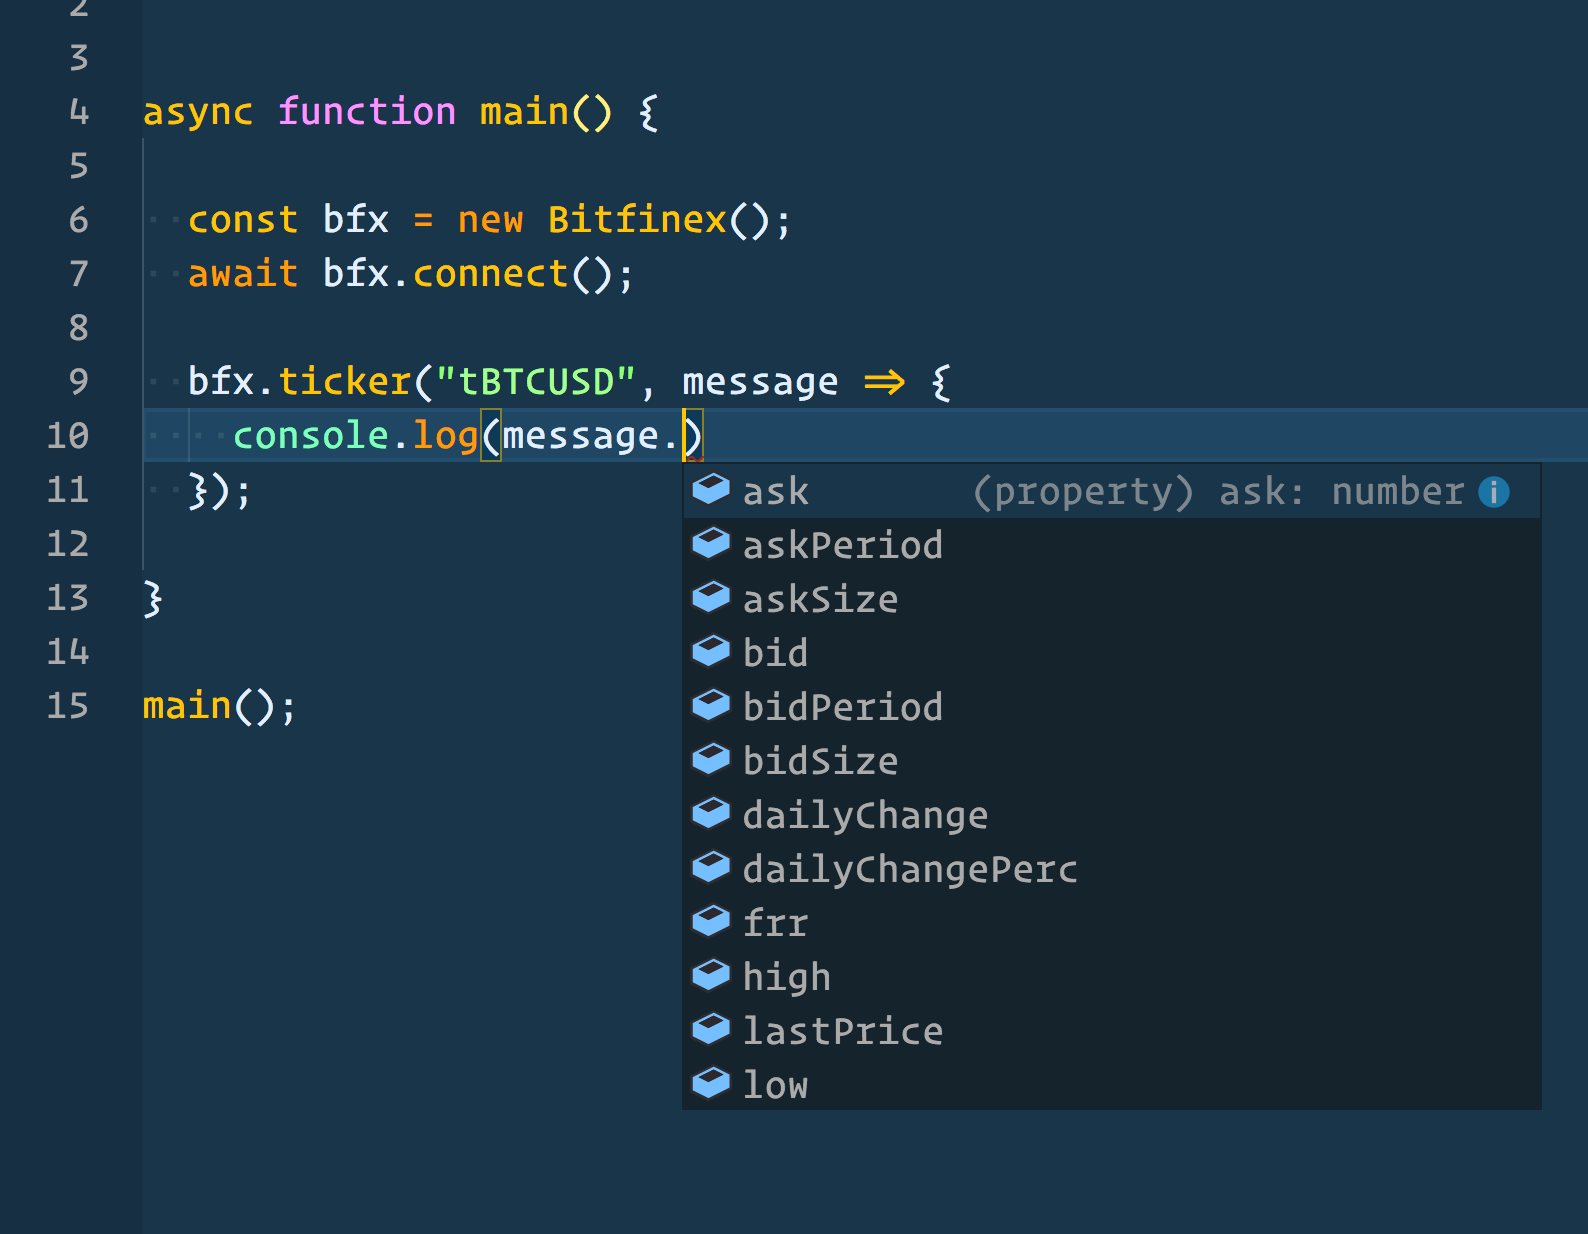
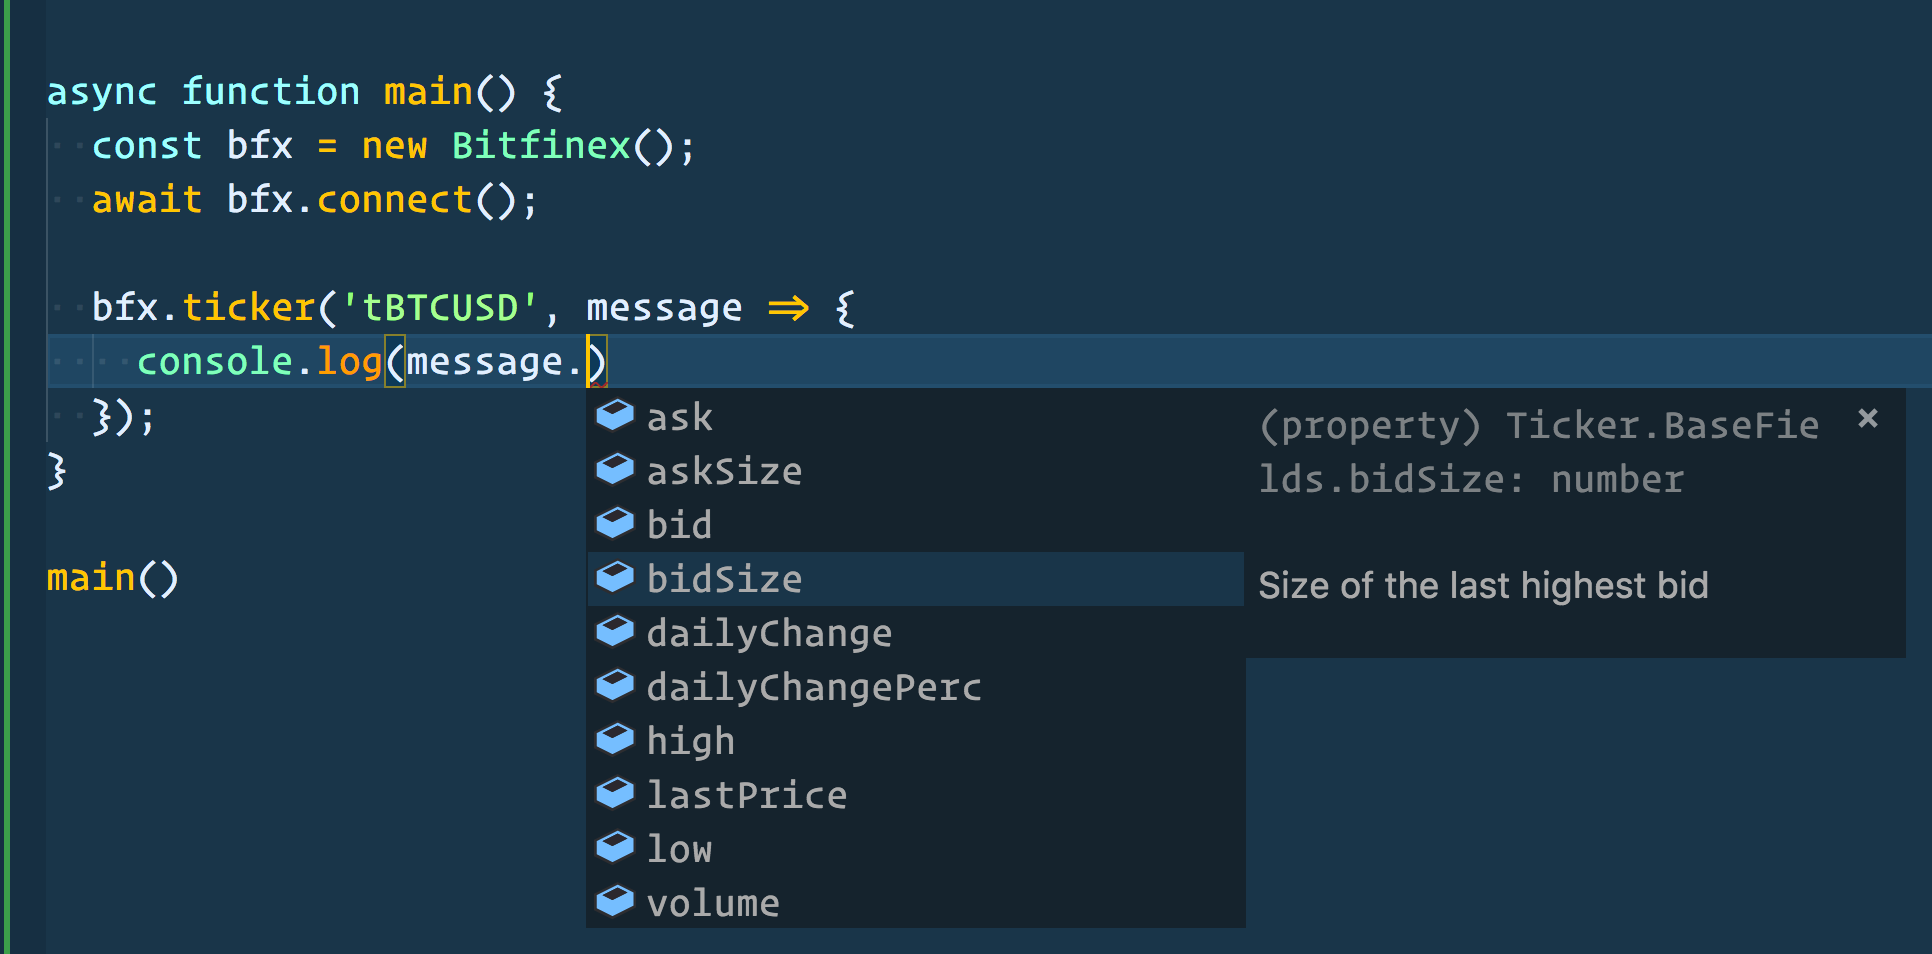
improving documentation

Changed region(s): [[0.0, 0.0, 1.0, 1.0]]

diff --git a/src/types.ts b/src/types.ts
@@ -29,7 +29,7 @@ export type Message =
   | Ticker.Snapshot.FundingPairsResponse
   | Ticker.Snapshot.TradingPairsResponse;
 
-namespace Ping {
+export namespace Ping {
   export interface Request {
     event: EventType.Ping;
     cid: number;
@@ -59,33 +59,38 @@ export namespace Ticker {
     | Ticker.Update.FundingPairsResponse
     | Ticker.Update.TradingPairsResponse;
 
-  export interface TradingPairs {
+  export interface BaseFields {
+    /** Price of last highest bid */
     bid: number;
+    /** Size of the last highest bid */
     bidSize: number;
+    /** Price of last lowest ask */
     ask: number;
+    /** Size of the last lowest ask */
     askSize: number;
+    /** Amount that the last price has changed since yesterday */
     dailyChange: number;
+    /** Amount that the price has changed expressed in percentage terms */
     dailyChangePerc: number;
+    /** Price of the last trade */
     lastPrice: number;
+    /** Daily volume */
     volume: number;
+    /** Daily high */
     high: number;
+    /** Daily low */
     low: number;
   }
 
-  export interface FundingPairs {
+  export interface TradingPairs extends BaseFields {}
+
+  export interface FundingPairs extends BaseFields {
+    /** Flash Return Rate - average of all fixed rate funding over the last hour */
     frr: number;
-    bid: number;
+    /** Price of last highest bid */
     bidPeriod: number;
-    bidSize: number;
-    ask: number;
+    /** Ask period covered in days */
     askPeriod: number;
-    askSize: number;
-    dailyChange: number;
-    dailyChangePerc: number;
-    lastPrice: number;
-    volume: number;
-    high: number;
-    low: number;
   }
 
   export namespace Snapshot {
